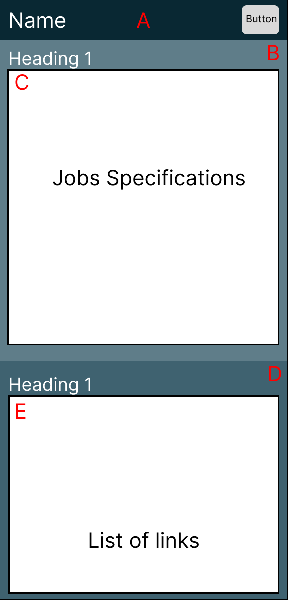
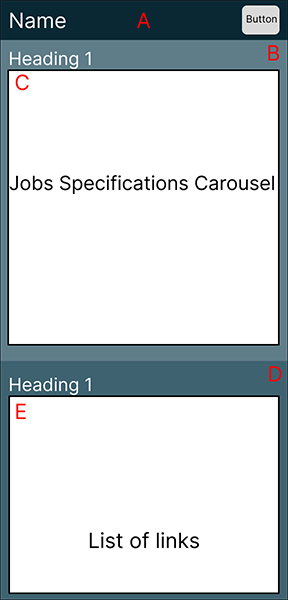
index

diff --git a/index.html b/index.html
@@ -7,7 +7,7 @@
     <title>Bootstrap demo</title>
     <link href="https://cdn.jsdelivr.net/npm/bootstrap@5.3.2/dist/css/bootstrap.min.css" rel="stylesheet"
         integrity="sha384-T3c6CoIi6uLrA9TneNEoa7RxnatzjcDSCmG1MXxSR1GAsXEV/Dwwykc2MPK8M2HN" crossorigin="anonymous">
-    <link href="../assets/css/style.css" rel="stylesheet">
+    <link href="assets/css/style.css" rel="stylesheet">
 </head>
 
 <body>
@@ -21,7 +21,7 @@
             <div class="collapse navbar-collapse" id="navbarNav">
                 <ul class="navbar-nav ms-auto">
                     <li class="nav-item">
-                        <a class="nav-link" href="joinus.html">Join Us</a>
+                        <a class="nav-link" href="src/joinus.html">Join Us</a>
                     </li>
                 </ul>
                 <form class="d-flex" role="search">
@@ -115,7 +115,7 @@
                                     <div class="row justify-content-center">
                                         <div class="col-md-12">
                                             <div class="card border-0 B">
-                                                <img src="../assets/img/tom.png" class="card-img-top"
+                                                <img src="assets/img/tom.png" class="card-img-top"
                                                     alt="Profile image of Alex">
                                                 <div class="card-body">
                                                     <h5 class="card-title H">Alex Patel</h5>
@@ -139,7 +139,7 @@
                                     <div class="row justify-content-center">
                                         <div class="col-md-12">
                                             <div class="card border-0 B">
-                                                <img src="../assets/img/Ellie.png" class="card-img-top"
+                                                <img src="assets/img/Ellie.png" class="card-img-top"
                                                     alt="Profile image of Sarah">
                                                 <div class="card-body">
                                                     <h5 class="card-title H">Sarah Nguyen</h5>
@@ -162,7 +162,7 @@
                                     <div class="row justify-content-center">
                                         <div class="col-md-12">
                                             <div class="card border-0 B">
-                                                <img src="../assets/img/max.png" class="card-img-top"
+                                                <img src="assets/img/max.png" class="card-img-top"
                                                     alt="Profile image of Michael">
                                                 <div class="card-body">
                                                     <h5 class="card-title H">Michael Johnson</h5>

diff --git a/src/joinus.html b/src/joinus.html
@@ -13,7 +13,7 @@
 <body>
     <nav class="navbar navbar-expand-lg sticky-top navbar-dark navbar-custom">
         <div class="container-fluid">
-            <a class="navbar-brand" href="index.html">Hot Beans Web</a>
+            <a class="navbar-brand" href="../index.html">Hot Beans Web</a>
             <button class="navbar-toggler" type="button" data-bs-toggle="collapse" data-bs-target="#navbarNav"
                 aria-controls="navbarNav" aria-expanded="false" aria-label="Toggle navigation">
                 <span class="navbar-toggler-icon"></span>
@@ -21,7 +21,7 @@
             <div class="collapse navbar-collapse" id="navbarNav">
                 <ul class="navbar-nav ms-auto">
                     <li class="nav-item">
-                        <a class="nav-link" href="index.html">About Us</a>
+                        <a class="nav-link" href="../index.html">About Us</a>
                     </li>
                 </ul>
                 <form class="d-flex" role="search">

diff --git a/src/form.html b/src/form.html
@@ -13,7 +13,7 @@
 <body>
     <nav class="navbar navbar-expand-lg sticky-top navbar-dark navbar-custom">
         <div class="container-fluid">
-            <a class="navbar-brand" href="index.html">Hot Beans Web</a>
+            <a class="navbar-brand" href="../index.html">Hot Beans Web</a>
             <button class="navbar-toggler" type="button" data-bs-toggle="collapse" data-bs-target="#navbarNav"
                 aria-controls="navbarNav" aria-expanded="false" aria-label="Toggle navigation">
                 <span class="navbar-toggler-icon"></span>
@@ -24,7 +24,7 @@
                         <a class="nav-link" href="joinus.html">Back</a>
                     </li>
                     <li class="nav-item">
-                        <a class="nav-link" href="index.html">About Us</a>
+                        <a class="nav-link" href="../index.html">About Us</a>
                     </li>
                 </ul>
                 <form class="d-flex" role="search">

diff --git a/README.md b/README.md
@@ -92,7 +92,7 @@ I will be using Arial, Helvetica, sans-serif in that order of priority. I will b
 
 + white text, default heading weights and sizes. Paragraphs and list items text changes size depending on screen size, if the screen is 1200px of below the text is 14px, if it is above that it is 17px.
 
-All text will be in the Arial font and should it not be available the Helvetica, or sans-serif fonts.
+All text will be in the Arial font and should it not be available then Helvetica, or sans-serif fonts.
 
 I decided to go with design two for my website because for the first design I would have had to create a separate page for the staff according to client requirements. I also like this design because the added navigation capabilities like the search bar, which would make the site easier to navigate.
 
@@ -109,6 +109,18 @@ I decided to go with design two for my website because for the first design I wo
 ![Alt text](assets/img/Carousel2.png)
 
 In the alternative design I changed the job specification section to a carousel because otherwise there would need to be multiple different pages if there were more then one job available, this helps the code be more maintainable by reducing the amount of code.
+
+#### A
+
+
+
+#### B
+
+#### C
+
+#### D
+
+#### E
 
 ### Join us/Job Spec Page Mobile Design
 
